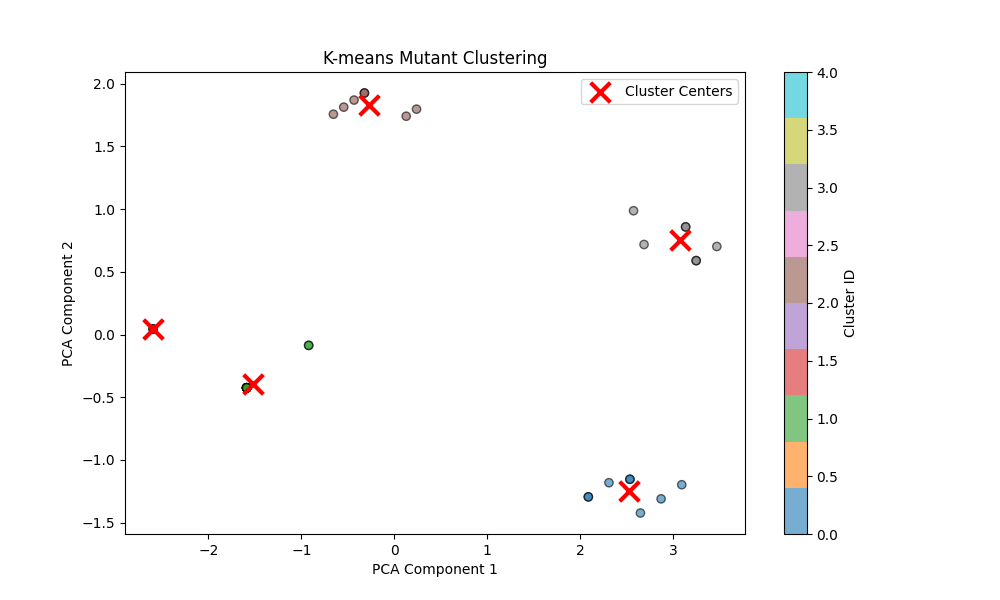
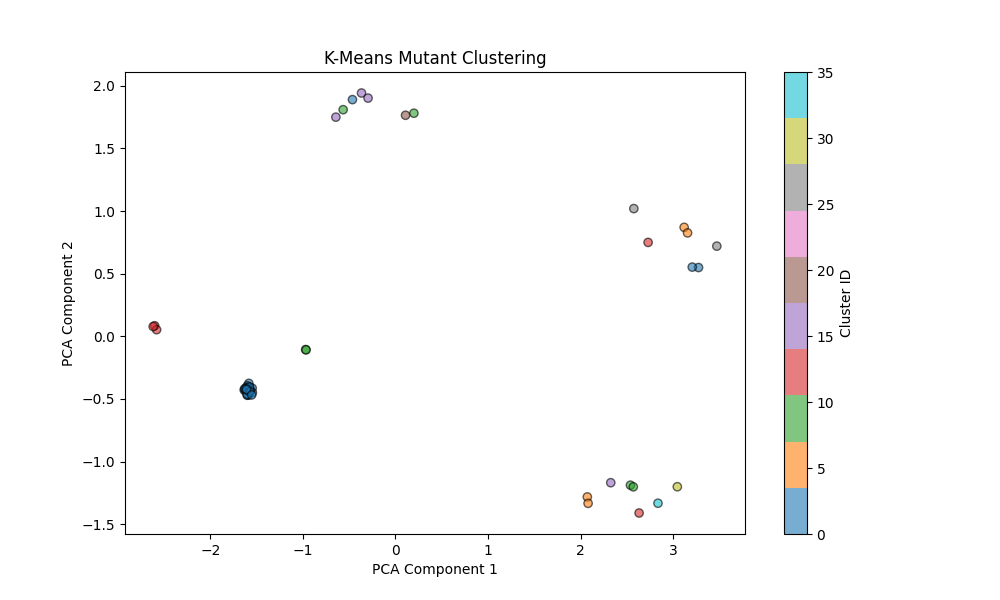
🎈Fix DBSCAN

diff --git a/src/clustering/dbscan.py b/src/clustering/dbscan.py
@@ -1,131 +1,147 @@
-import os
 import json
 import numpy as np
-import pandas as pd
-import matplotlib.pyplot as plt
 from sklearn.preprocessing import StandardScaler
+from sklearn.cluster import DBSCAN
+import matplotlib.pyplot as plt
 from sklearn.decomposition import PCA
-from sklearn.cluster import KMeans
-from collections import Counter
+import pandas as pd
 
-# Define paths
-features_path = "data/output/features.json"
-output_dir = "data/output/clustering/"
-os.makedirs(output_dir, exist_ok=True)
-
-# Load extracted features from JSON
-with open(features_path, "r") as f:
-    features_data = json.load(f)
-
-# Convert features to DataFrame
-df = pd.DataFrame.from_dict(features_data, orient="index")
-
-# Store mutant names
-mutant_names = df.index.tolist()
-
-# Normalize features (Standardization)
-scaler = StandardScaler()
-scaled_features = scaler.fit_transform(df)
-
-# Function to plot elbow curve
-def plot_elbow_curve(data, max_k=10):
-    inertias = []
-    k_values = range(1, max_k + 1)
+def load_features(features_file):
+    """Load features from JSON file and convert to numpy array."""
+    with open(features_file, 'r') as f:
+        features_dict = json.load(f)
     
-    for k in k_values:
-        kmeans = KMeans(n_clusters=k, random_state=42, n_init=10)
-        kmeans.fit(data)
-        inertias.append(kmeans.inertia_)
+    # Convert dictionary to DataFrame
+    df = pd.DataFrame.from_dict(features_dict, orient='index')
     
-    # Plot elbow curve
-    plt.figure(figsize=(10, 6))
-    plt.plot(k_values, inertias, 'bx-')
-    plt.plot(5, inertias[4], 'ro', markersize=10, 
-             label='Selected k=5')  # Marking k=5
-    plt.xlabel('Number of Clusters (k)')
-    plt.ylabel('Inertia')
-    plt.title('Elbow Method for K Selection')
+    # Store mutant names for later reference
+    mutant_names = list(features_dict.keys())
+    
+    # Convert to numpy array for clustering
+    feature_matrix = df.values
+    
+    return feature_matrix, mutant_names, df
+
+def perform_clustering(feature_matrix, eps=0.5, min_samples=2):
+    """Perform DBSCAN clustering on normalized features."""
+    # Normalize features
+    scaler = StandardScaler()
+    normalized_features = scaler.fit_transform(feature_matrix)
+    
+    # Perform DBSCAN clustering
+    dbscan = DBSCAN(eps=eps, min_samples=min_samples)
+    clusters = dbscan.fit_predict(normalized_features)
+    
+    return clusters, normalized_features
+
+def visualize_clusters(normalized_features, clusters, mutant_names, output_file):
+    """Create a 2D visualization of the clusters using PCA."""
+    # Reduce dimensionality to 2D using PCA
+    pca = PCA(n_components=2)
+    features_2d = pca.fit_transform(normalized_features)
+    
+    # Create the plot
+    plt.figure(figsize=(12, 8))
+    
+    # Get unique clusters
+    unique_clusters = np.unique(clusters)
+    
+    # Create a colormap with distinct colors for each cluster
+    colors = plt.cm.rainbow(np.linspace(0, 1, len(unique_clusters)))
+    
+    # Plot points for each cluster with different colors
+    for cluster_id, color in zip(unique_clusters, colors):
+        mask = clusters == cluster_id
+        label = 'Noise' if cluster_id == -1 else f'Cluster {cluster_id}'
+        plt.scatter(features_2d[mask, 0], features_2d[mask, 1], 
+                   c=[color], label=label, alpha=0.7)
+    
+    # Add small dots to show exact positions
+    plt.scatter(features_2d[:, 0], features_2d[:, 1], c='black', s=1, alpha=0.5)
+    
+    # Print information about potential overlapping points
+    unique_positions = set()
+    overlapping_points = []
+    
+    for i, (x, y) in enumerate(features_2d):
+        pos = (round(x, 4), round(y, 4))  # Round to 4 decimal places
+        if pos in unique_positions:
+            overlapping_points.append(mutant_names[i])
+        unique_positions.add(pos)
+    
+    if overlapping_points:
+        print("\nOverlapping points detected:")
+        print("The following mutants have identical or very similar positions:")
+        for point in overlapping_points:
+            print(f"- {point}")
+    
+    # Print total points
+    print(f"\nTotal mutants: {len(mutant_names)}")
+    print(f"Unique positions on plot: {len(unique_positions)}")
+    
+    plt.title('Mutant Clusters Visualization')
+    plt.xlabel('First Principal Component')
+    plt.ylabel('Second Principal Component')
     plt.legend()
-    plt.grid(True)
     
-    # Save the elbow curve
-    plt.savefig(os.path.join(output_dir, "elbow_curve.png"))
+    # Save the plot
+    plt.savefig(output_file, dpi=300, bbox_inches='tight')
     plt.close()
 
-# Plot the elbow curve
-plot_elbow_curve(scaled_features)
-print(f"🔍 Using k=5 clusters based on elbow curve analysis")
+def analyze_clusters(clusters, mutant_names, df):
+    """Analyze and print information about the clusters."""
+    unique_clusters = np.unique(clusters)
+    
+    print("\nCluster Analysis:")
+    print("=" * 50)
+    
+    for cluster in unique_clusters:
+        cluster_mask = clusters == cluster
+        cluster_mutants = np.array(mutant_names)[cluster_mask]
+        cluster_features = df.iloc[cluster_mask]
+        
+        if cluster == -1:
+            print("\nNoise points (outliers):")
+        else:
+            print(f"\nCluster {cluster}:")
+        
+        print(f"Number of mutants: {len(cluster_mutants)}")
+        print("Mutants:", ", ".join(cluster_mutants))
+        
+        print("\nCluster characteristics (mean values):")
+        for feature in df.columns:
+            mean_value = cluster_features[feature].mean()
+            print(f"{feature}: {mean_value:.2f}")
+        
+        print("-" * 50)
 
-# Apply K-means clustering with k=5
-kmeans = KMeans(n_clusters=5, random_state=42, n_init=10)
-cluster_labels = kmeans.fit_predict(scaled_features)
+def main():
+    # File paths
+    features_file = "data/output/features.json"
+    visualization_file = "data/output/clustering/dbscan_output.png"
+    
+    # Load features
+    feature_matrix, mutant_names, df = load_features(features_file)
+    
+    # Perform clustering
+    clusters, normalized_features = perform_clustering(
+        feature_matrix, 
+        eps=2.0,  # Adjust this value based on your needs
+        min_samples=2
+    )
+    
+    # Visualize results
+    visualize_clusters(normalized_features, clusters, mutant_names, visualization_file)
+    
+    # Analyze clusters
+    analyze_clusters(clusters, mutant_names, df)
+    
+    # Print summary
+    n_clusters = len(np.unique(clusters)) - (1 if -1 in clusters else 0)
+    print(f"\nSummary:")
+    print(f"Total number of clusters found: {n_clusters}")
+    print(f"Number of noise points: {list(clusters).count(-1)}")
+    print(f"Visualization saved to: {visualization_file}")
 
-# Store results in a dictionary
-cluster_assignments = {mutant_names[i]: int(cluster_labels[i]) for i in range(len(mutant_names))}
-
-# Save cluster assignments to JSON
-output_path = os.path.join(output_dir, "kmeans_cluster_assignments.json")
-with open(output_path, "w") as f:
-    json.dump(cluster_assignments, f, indent=4)
-print(f"✅ Cluster assignments saved to {output_path}")
-
-# Display cluster summary
-cluster_counts = Counter(cluster_labels)
-print(f"🔢 Cluster distribution: {dict(cluster_counts)}")
-
-# Calculate cluster centers in original feature space
-cluster_centers_scaled = kmeans.cluster_centers_
-cluster_centers_original = scaler.inverse_transform(cluster_centers_scaled)
-cluster_centers_df = pd.DataFrame(
-    cluster_centers_original,
-    columns=df.columns,
-    index=[f"Cluster_{i}" for i in range(5)]
-)
-
-# Save cluster centers to CSV
-centers_output_path = os.path.join(output_dir, "kmeans_cluster_centers.csv")
-cluster_centers_df.to_csv(centers_output_path)
-print(f"📊 Cluster centers saved to {centers_output_path}")
-
-# Reduce dimensions for visualization using PCA
-pca = PCA(n_components=2)
-reduced_features = pca.fit_transform(scaled_features)
-reduced_centers = pca.transform(cluster_centers_scaled)
-
-# Plot clusters with centers
-plt.figure(figsize=(10, 6))
-scatter = plt.scatter(
-    reduced_features[:, 0],
-    reduced_features[:, 1],
-    c=cluster_labels,
-    cmap="tab10",
-    alpha=0.6,
-    edgecolors="k"
-)
-
-# Plot cluster centers
-plt.scatter(
-    reduced_centers[:, 0],
-    reduced_centers[:, 1],
-    c='red',
-    marker='x',
-    s=200,
-    linewidth=3,
-    label='Cluster Centers'
-)
-
-plt.xlabel("PCA Component 1")
-plt.ylabel("PCA Component 2")
-plt.title("K-means Mutant Clustering")
-plt.legend()
-
-# Add cluster size legend
-cbar = plt.colorbar(scatter)
-cbar.set_label("Cluster ID")
-
-# Save the figure
-output_image_path = os.path.join(output_dir, "kmeans_clustering.png")
-plt.savefig(output_image_path)
-print(f"📊 Clustering visualization saved to {output_image_path}")
-
-plt.close()
+if __name__ == "__main__":
+    main()

diff --git a/src/clustering/kmeans_alt.py b/src/clustering/kmeans_alt.py
@@ -126,7 +126,7 @@ cbar = plt.colorbar(scatter)
 cbar.set_label("Cluster ID")
 
 # Save the figure
-output_image_path = os.path.join(output_dir, "kmeans_clustering.png")
+output_image_path = os.path.join(output_dir, "kmeans_clustering_alt.png")
 plt.savefig(output_image_path)
 print(f"📊 Clustering visualization saved to {output_image_path}")
 
